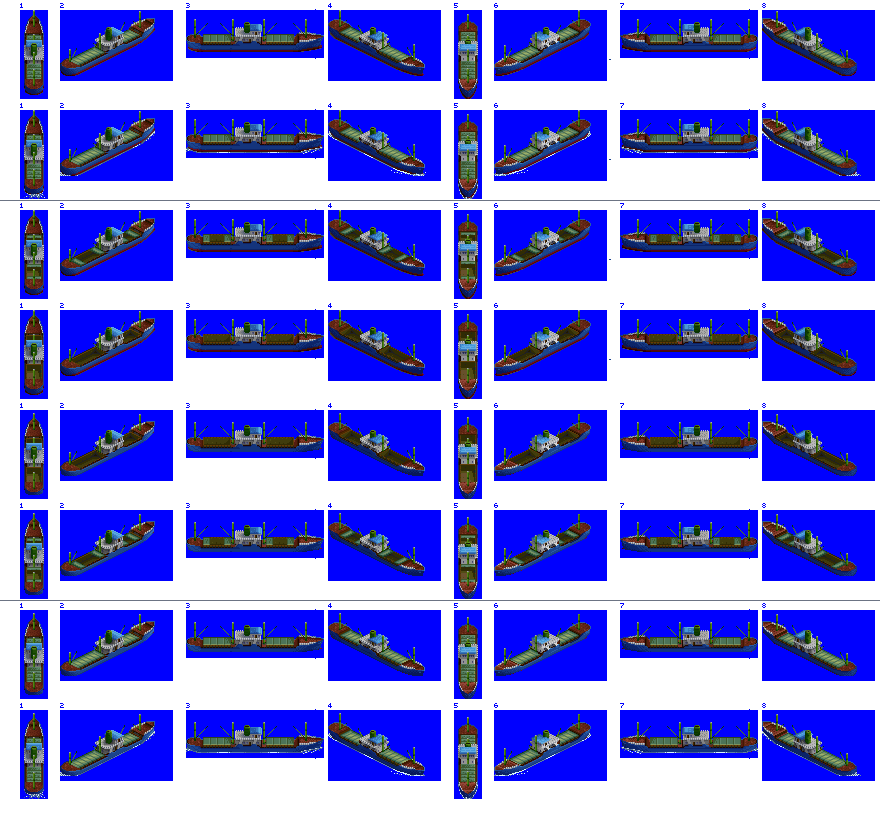
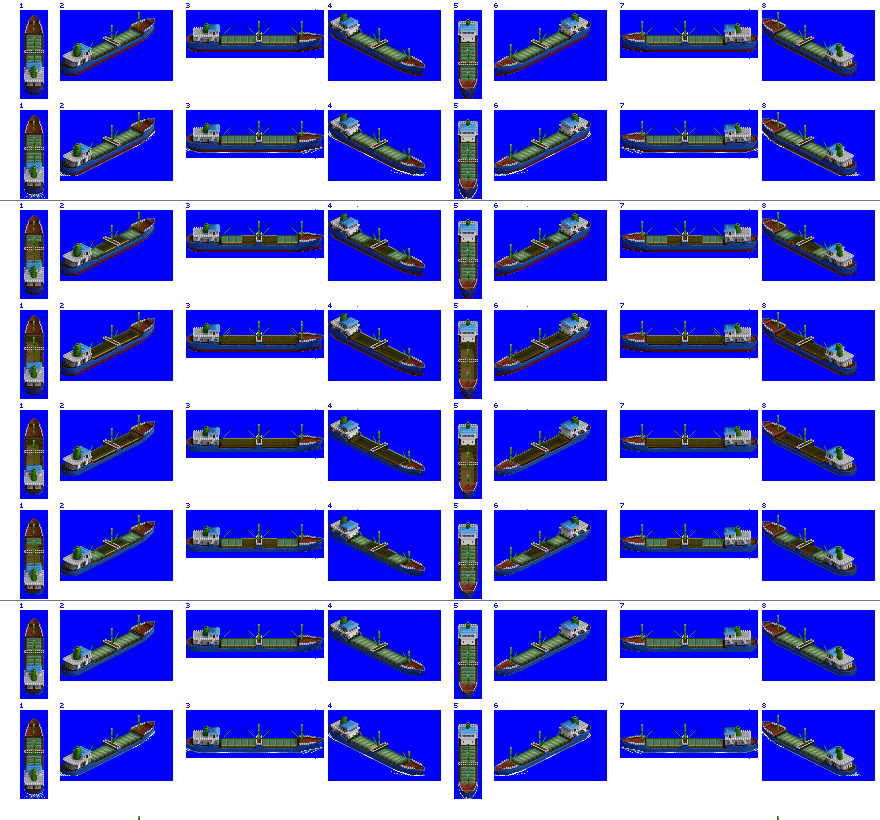
Change: just one variant of sprites for Santorini Freighter, the variants were visually too different

diff --git a/src/ships/santorini_freighter.py b/src/ships/santorini_freighter.py
@@ -23,19 +23,6 @@ ship = GeneralCargoVessel(id = 'santorini_freighter',
             gross_tonnage = 960,
             graphics_status = 'Done',)
 
-# this ship has centre and rear house random variants.  The center house is more probable before 1974
-ship.add_model_variant(intro_date=0,
-                       end_date=1974,
-                       spritesheet_suffix=0)
-
 ship.add_model_variant(intro_date=0,
                        end_date=global_constants.max_game_date,
                        spritesheet_suffix=0)
-
-ship.add_model_variant(intro_date=1953,
-                       end_date=global_constants.max_game_date,
-                       spritesheet_suffix=1)
-
-ship.add_model_variant(intro_date=1974,
-                       end_date=global_constants.max_game_date,
-                       spritesheet_suffix=1)
